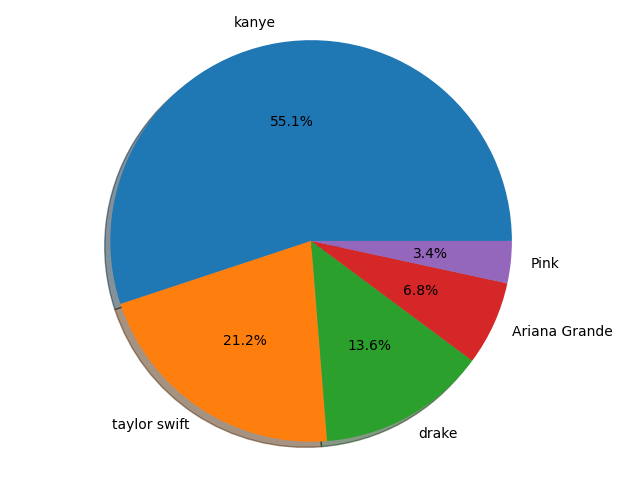
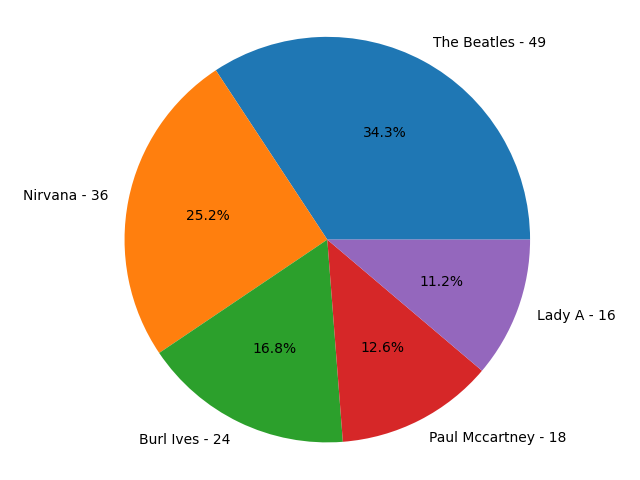
minor changes to pie chart and template

diff --git a/templates/base.html b/templates/base.html
@@ -17,7 +17,7 @@
     </div>
 
     {% if form.is_submitted %}
-        <div class="image-container">{{ url_for('static', filename="plot.png"}}</div>
+        <div class="image-container"><img src="{{ url_for('static', filename="plot.png")}}"/></div>
     {% endif %}
 
 </body>

diff --git a/make_pie_chart.py b/make_pie_chart.py
@@ -1,19 +1,26 @@
 import matplotlib.pyplot as plt
+from artist_used_most import artist_used_most, open_file
+
+wc = artist_used_most("hello", open_file())
 
 
-def make_pie_chart(artist_word_counts):
+def make_pie_chart(artist_counts):
 
     # get the labels
-    labels = [artist_word_counts["Artist"] for _ in artist_word_counts]
+    labels = [
+        artist_counts[num]["Artist"] + " - " + str(artist_counts[num]['Lyrics count'])
+        for num in range(len(artist_counts))
+    ]
     # get the counts
-    counts = [artist_word_counts['Lyrics count'] for _ in artist_word_counts]
+    counts = [artist_counts[num]['Lyrics count'] for num in range(len(artist_counts))]
     # break off the highest count
     # explode = (0.5, 0, 0, 0, 0)
 
     # make the chart
     figure, axis = plt.subplots()
-    axis.pie(counts, shadow=True, labels=labels, autopct='%1.1f%%')
+    axis.pie(counts, labels=labels, autopct='%1.1f%%')
     axis.axis('equal')
     plt.tight_layout()
     plt.savefig(r"static/plot.png")
 
+make_pie_chart(wc)

diff --git a/app.py b/app.py
@@ -7,6 +7,8 @@ from wtforms import StringField
 from wtforms.validators import InputRequired, ValidationError
 from get_top_artists import get_top_artists
 from form import WordSearchForm
+from artist_used_most import artist_used_most, open_file
+from make_pie_chart import make_pie_chart
 
 app = Flask(__name__)
 
@@ -22,6 +24,7 @@ def search():
     form = WordSearchForm()
     if form.validate_on_submit():
         query = request.form['word_search']
+        make_pie_chart(artist_used_most(query, open_file()))
         return render_template("base.html", data=query, form=form)
     return render_template("base.html", form=form)
 
